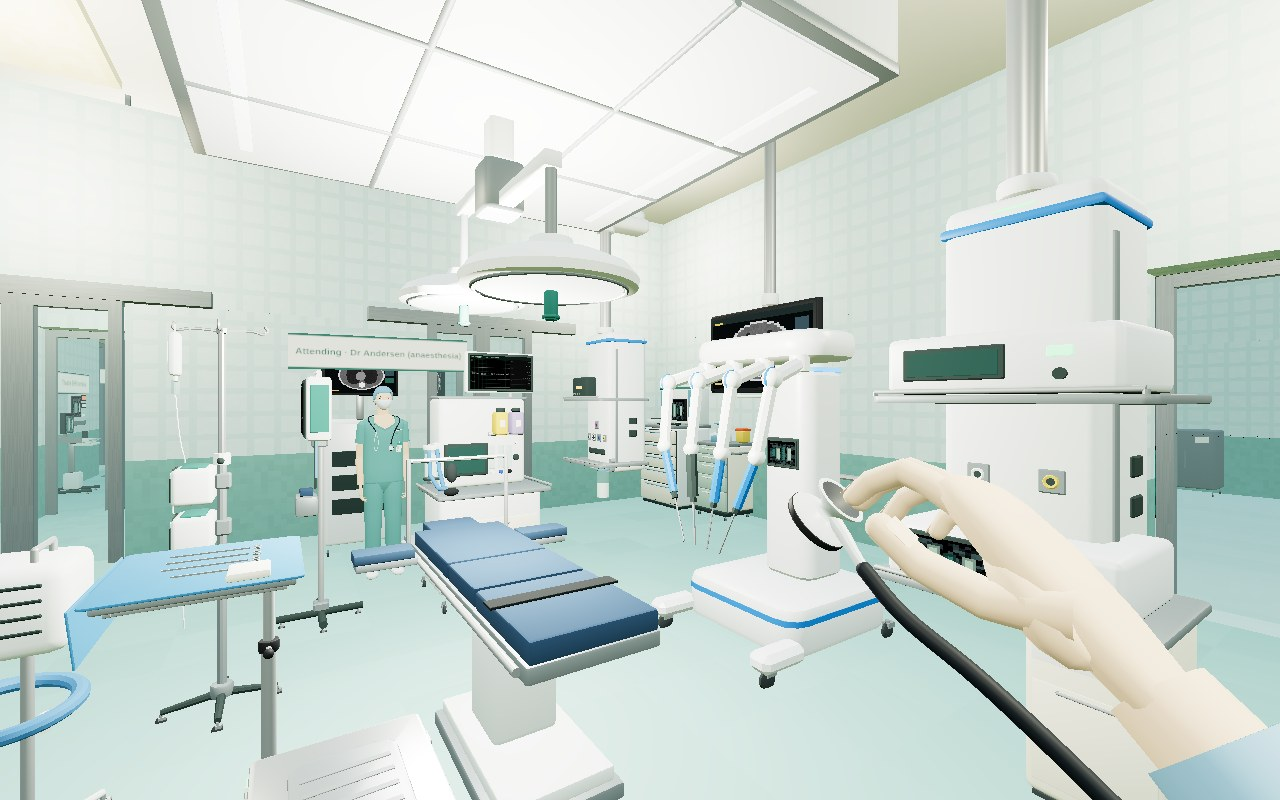
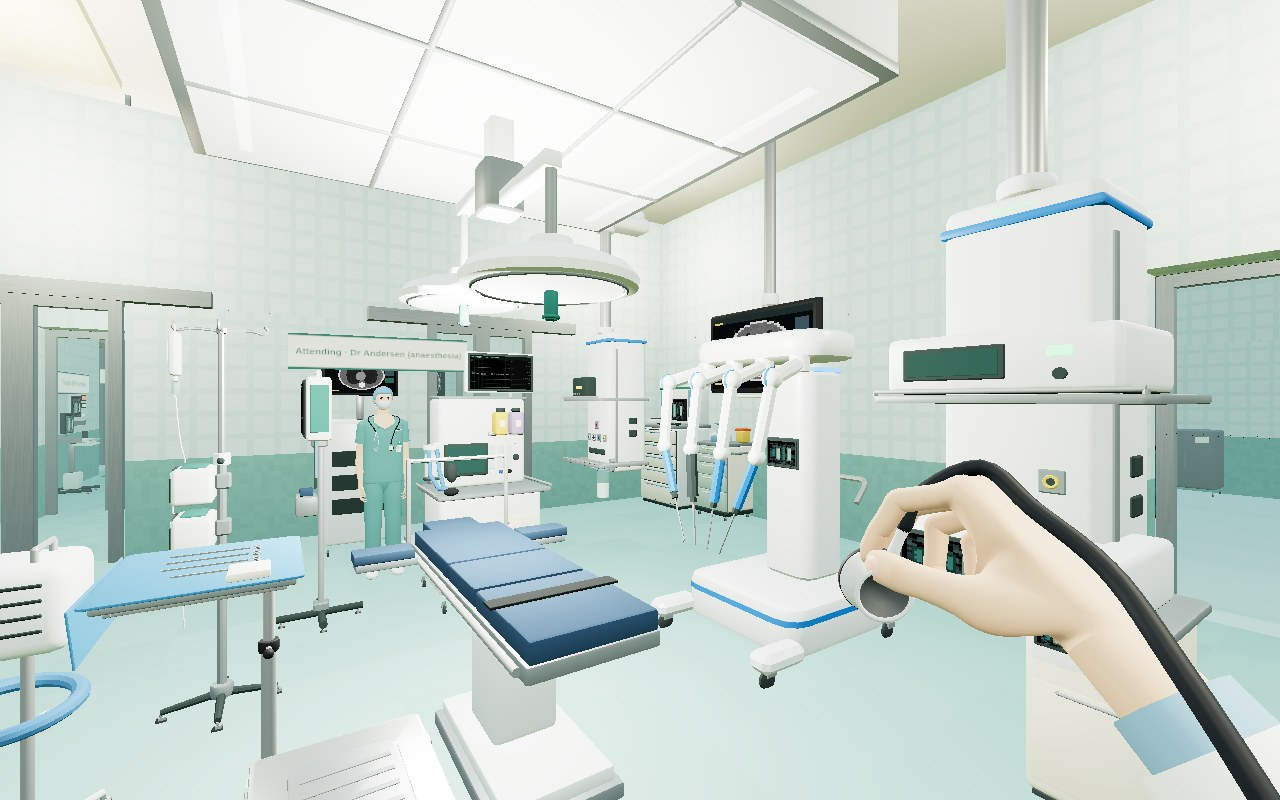
Docs: figures retaken with the hands as ClinicalCraft draws them now
ClinicalCraft draws a hand as one skin over a hand's bones (knuckles half-way along
it, webs, the thumb out of its mound, nails), turns the forearm with it, and has the
scrubbed hold one hand over the other; the player's own hand pinches the chest piece
of its stethoscope pad to pad. No content changes: the pack's staff already carry
their positions.

- docs/MODELS.md: OR 2, OR 1 and the PACU retaken from the same places; README: the
  team in OR 7, and what the scrub nurse's hands do.

Needs the ClinicalCraft commit pinned in the next change.

Claude-Session: https://claude.ai/code/session_01DxjVTAi86JyY2qZAavrFeS

Changed region(s): [[0.5938, 0.5625, 1.0, 1.0]]

diff --git a/docs/MODELS.md b/docs/MODELS.md
@@ -21,9 +21,9 @@ are where the world draws its live screens.*
 
 In the hospital, in `clinicalcraft serve`: the first three figures put the voxel parts (left) beside the models
 (right) and were taken with ClinicalCraft's earlier block figures; the last three show the models alone and
-were retaken on 2026-11-11, with the people and the hand as ClinicalCraft draws them now — figures of real
-proportions dressed for their position (theatre scrubs, cap and mask; the scrubbed in sterile gown and gloves),
-the player's hand holding a stethoscope.
+were retaken on 2026-11-11, with the people and the hands as ClinicalCraft draws them now — figures of real
+proportions dressed for their position (theatre scrubs, cap and mask; the scrubbed in sterile gown and gloves,
+one hand held over the other), the player's own hand pinching the chest piece of a stethoscope.
 
 ![Back table](img/models-or7-instruments.jpg)
 *OR 7 back table: safety scalpel, Mayo-Hegar needle holder (gold rings), DeBakey forceps,

diff --git a/README.md b/README.md
@@ -83,7 +83,7 @@ US and Japanese requirements for each topic ([docs/STANDARDS.md](docs/STANDARDS.
   surgical skills & simulation centre;
 * **interactive people, instruments and devices**: an OR team in every OR who pass what you
   call for ("Scalpel.", "把手术刀递给我") and are dressed for their position — the scrub nurse
-  in cap, mask, sterile gown and gloves with the hands held in front, the circulating nurse
+  in cap, mask, sterile gown and gloves with one hand held over the other in front, the circulating nurse
   and the anaesthetist in theatre scrubs, cap and mask (ClinicalCraft draws a `position`'s
   attire; nobody stands in theatre in a white coat); instruments, gowns, gloves and lead aprons you pick up,
   wear and hand over, each with a lifecycle (sterile → in use → used → CSSD); the WHO
